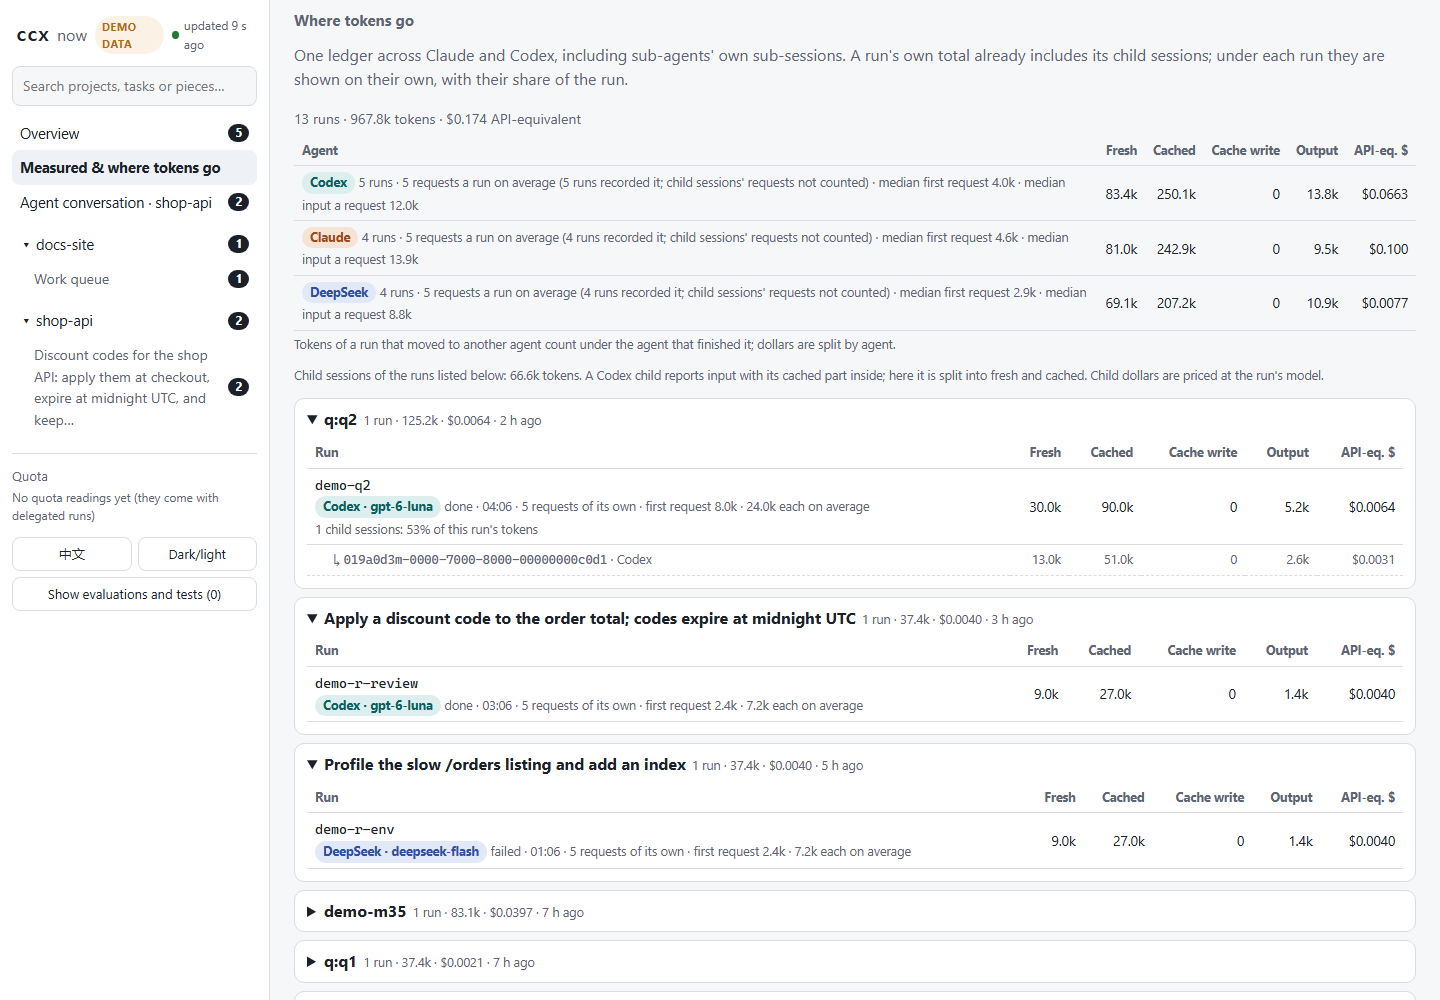
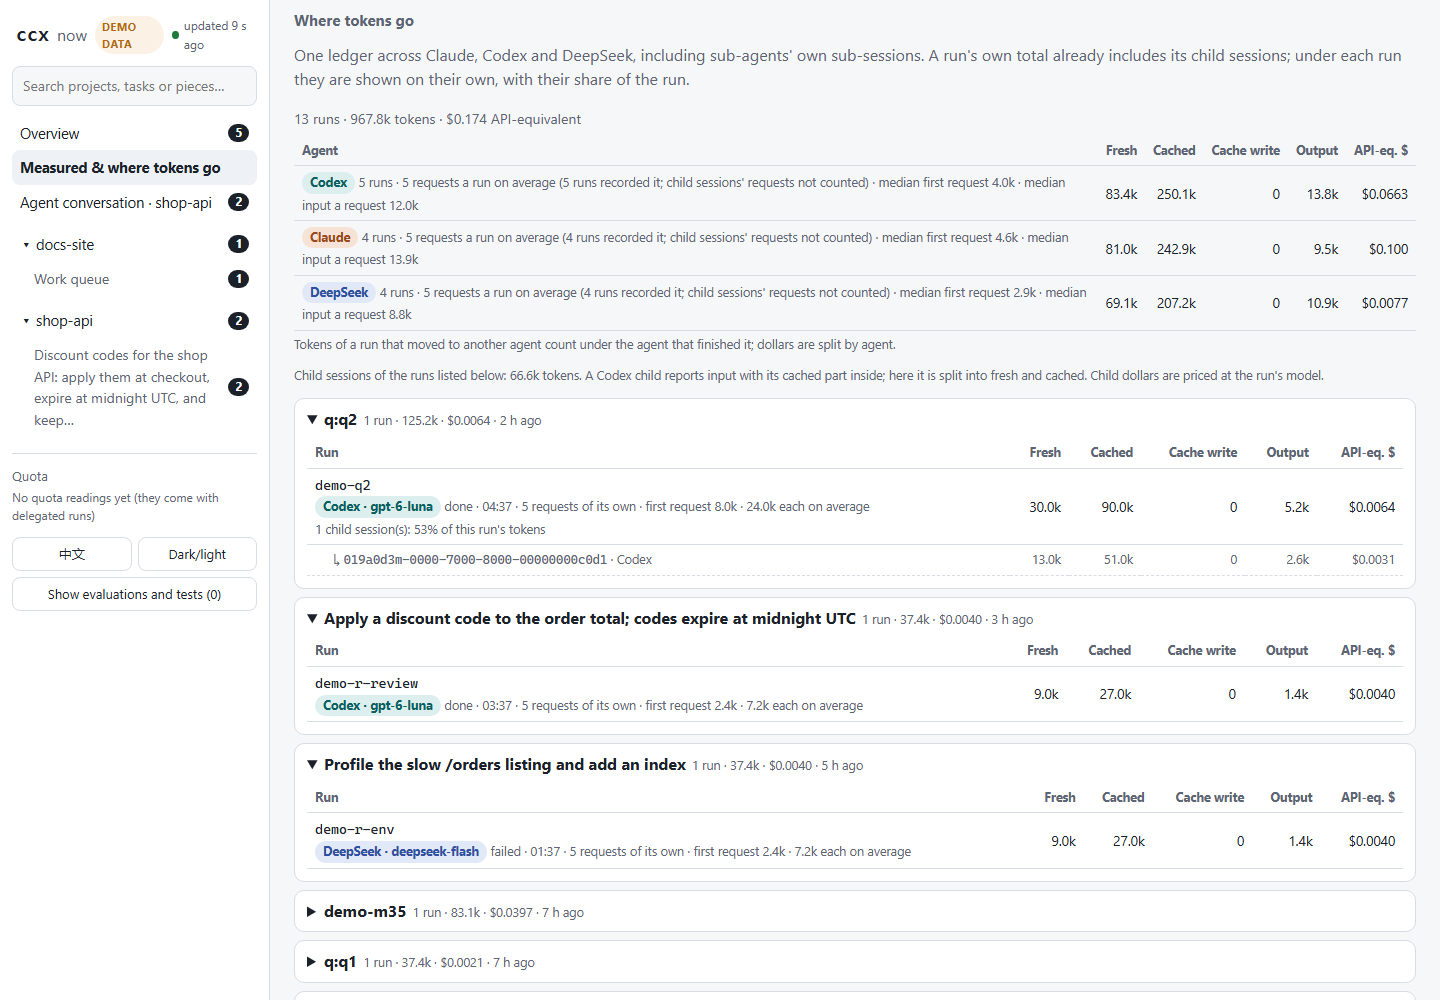
审查修正：features 去掉旧截图来源说法；中文图注写明按 API 价格折算；child session(s) 与三家一本账文案；中文深色图 alt；泄露检查不分大小写并加单测；浏览器查找路径补全；重拍 tokens-en

Changed region(s): [[0.1875, 0.031, 0.9688, 0.093], [0.2812, 0.527, 0.375, 0.558]]

diff --git a/site/zh/index.html b/site/zh/index.html
@@ -110,11 +110,11 @@
       <img class="for-light" src="../assets/ui/task-zh.png" width="1440" height="1000" loading="lazy"
            alt="ccx ui 任务页：一件任务画成组织图，每个干活的一列；右边是一次派活的收据：花费、ccx 重跑的验收、审查（演示数据）">
       <img class="for-dark" src="../assets/ui/task-en-dark.png" width="1440" height="1000" loading="lazy"
-           alt="ccx ui task page in English, dark theme (demo data)">
+           alt="ccx ui 任务页，英文、深色（演示数据）">
     </div>
     <div class="figure shot">
       <img src="../assets/ui/k6-month-zh.png" width="1440" height="1000" loading="lazy"
-           alt="ccx ui 总管看板：各项目、现在的主导、这个月只显示实际花费（演示数据）">
+           alt="ccx ui 总管看板：各项目、现在的主导、这个月子智能体的花费（按 API 价格折算；实测之前不显示省了多少）（演示数据）">
     </div>
   </section>
 

diff --git a/scripts/make_shots.py b/scripts/make_shots.py
@@ -29,12 +29,17 @@ SIZE = (1440, 1000)
 
 def browser(given: str | None) -> str:
     for name in (given, os.environ.get("CCX_TEST_BROWSER"), "google-chrome", "google-chrome-stable", "chromium",
-                 "chromium-browser", "chrome", "msedge"):
+                 "chromium-browser", "chrome", "msedge", "microsoft-edge"):
         if name and (shutil.which(name) or Path(name).is_file()):
             return shutil.which(name) or name
+    local = os.environ.get("LOCALAPPDATA", "")
     for f in (r"C:\Program Files\Google\Chrome\Application\chrome.exe",
+              r"C:\Program Files (x86)\Google\Chrome\Application\chrome.exe",
+              local and os.path.join(local, "Google", "Chrome", "Application", "chrome.exe"),
               r"C:\Program Files (x86)\Microsoft\Edge\Application\msedge.exe",
-              "/Applications/Google Chrome.app/Contents/MacOS/Google Chrome"):
+              r"C:\Program Files\Microsoft\Edge\Application\msedge.exe",
+              "/Applications/Google Chrome.app/Contents/MacOS/Google Chrome",
+              "/Applications/Microsoft Edge.app/Contents/MacOS/Microsoft Edge"):
         if Path(f).is_file():
             return f
     raise SystemExit("no Chrome, Chromium or Edge found: give one with --browser")
@@ -101,12 +106,13 @@ def scrolled(f: Path, top: int) -> None:
 
 
 def leaks(text: str, base: Path) -> list[str]:
-    """Where this machine keeps files, if the page text shows it: the demo folder, the home folder, a user folder."""
+    """Where this machine keeps files, if the page text shows it: the demo folder, the home folder, a user folder.
+    The text is what the page draws (text nodes); attribute values such as a title tooltip are not drawn in a shot."""
     found = []
     for s in {str(base), str(base).replace("\\", "/"), str(Path.home()), str(Path.home()).replace("\\", "/")}:
         if s and s in text:
             found.append(s)
-    found += re.findall(r"[A-Za-z]:[\/]+Users[\/]+[^\/\s]+|/(?:Users|home)/[^/\s]+", text)
+    found += re.findall(r"[A-Za-z]:[\\/]+Users[\\/]+[^\\/\s]+|/(?:Users|home)/[^/\s]+", text, re.IGNORECASE)
     return found
 
 

diff --git a/tests/test_make_shots.py b/tests/test_make_shots.py
@@ -1,0 +1,16 @@
+"""scripts/make_shots.py: a screenshot is not written when the page shows where this machine keeps files."""
+import importlib.util
+from pathlib import Path
+
+ROOT = Path(__file__).resolve().parent.parent
+spec = importlib.util.spec_from_file_location("make_shots", ROOT / "scripts" / "make_shots.py")
+shots = importlib.util.module_from_spec(spec)
+spec.loader.exec_module(shots)
+
+
+def test_leaks_finds_user_folders_either_slash_and_the_demo_folder(tmp_path):
+    base = tmp_path / "ccx-demo-x"
+    for text in (r"run in C:\Users\bob\proj", "run in c:/users/bob/proj", "see /home/bob/x", "see /Users/bob/x",
+                 f"folder {base}"):
+        assert shots.leaks(text, base), text
+    assert shots.leaks("Discount codes for the shop API · $0.0051 · demo-r-ok", base) == []

diff --git a/docs/features.md b/docs/features.md
@@ -113,8 +113,8 @@ Screenshots: `ccx demo`'s data, taken by `python scripts/make_shots.py`.
 
 </details>
 
-The screenshots come from `python scripts/ui_demo.py --plain`: a throwaway hub with real ccx runs on stand-in CLIs,
-nobody's real work.
+The screenshots above come from `ccx demo`'s made-up data (`python scripts/make_shots.py`); `python scripts/ui_demo.py`
+still builds a throwaway hub with real ccx runs on stand-in CLIs, nobody's real work.
 
 ## How it works (one example)
 

diff --git a/docs/features.zh.md b/docs/features.zh.md
@@ -51,7 +51,7 @@
 
 </details>
 
-截图是用 `python scripts/ui_demo.py --plain` 生成的：临时 hub、模拟命令行跑出的真实 ccx 运行，不含任何人的真实工作。
+上面的截图用的是 `ccx demo` 编好的数据（`python scripts/make_shots.py` 拍）；`python scripts/ui_demo.py` 仍可生成临时 hub、用模拟命令行跑真实的 ccx 运行，不含任何人的真实工作。
 
 ## 它怎么工作（一个例子）
 
